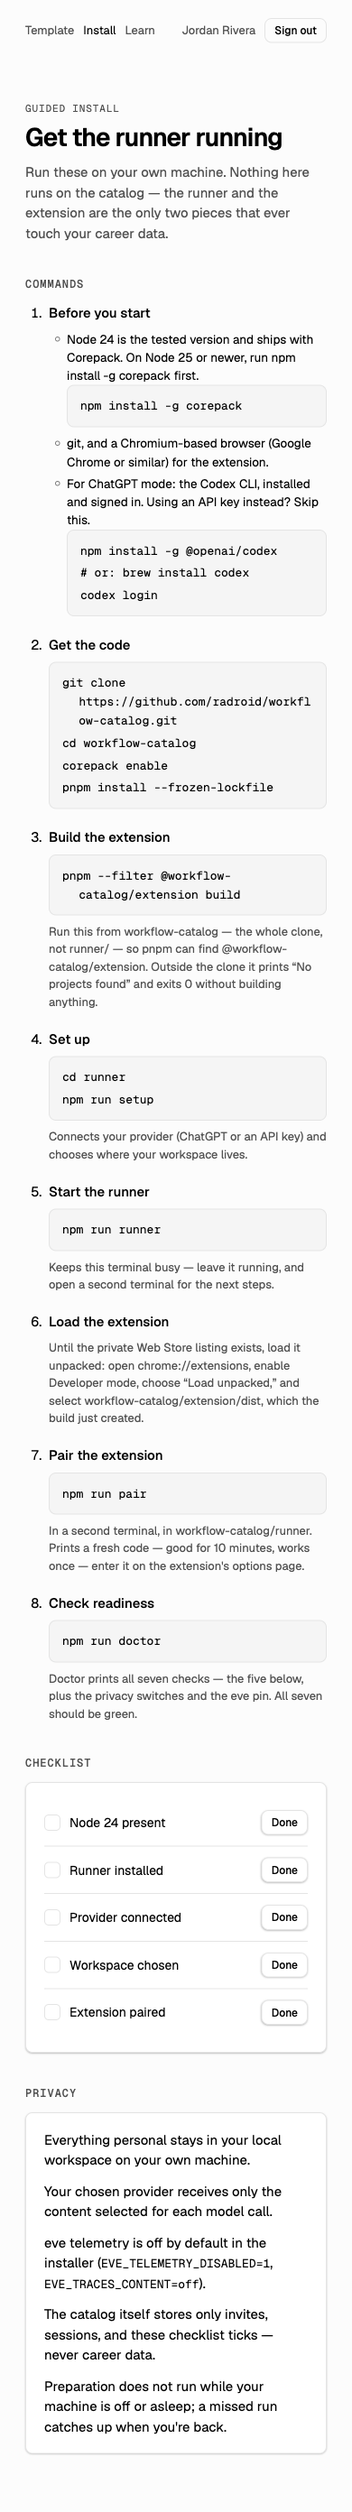
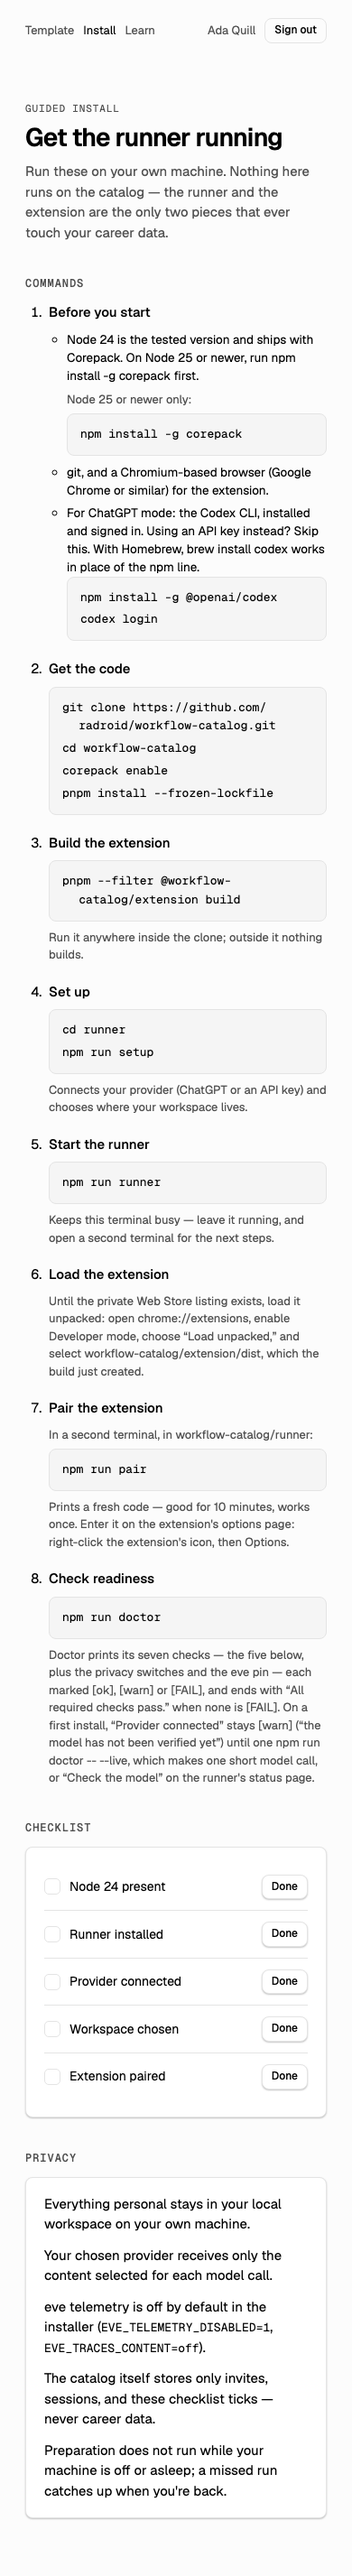
P09.1: re-shoot acceptance screenshots signed in as Ada Quill
All eight docs/screenshots/P09.1-{install,template}-{light,dark}-{1280,390}.png
re-captured full page, signed in through a fresh invite as the fictional
"Ada Quill" (fixtures policy), against `pnpm --filter catalog dev --port
3105` with throwaway secrets and PGlite under /tmp; browsed
http://localhost:3105. Before each capture the script asserted the header
name, the theme, no horizontal overflow and axe 0 violations; on /install
it also checked that each command block copies exactly its commands and
that the clone command breaks only at the space or a <wbr>.

Also corrects two comments: at 390 the clone URL wraps after
"github.com/" (both <wbr> are opportunities; the browser fills the line).

diff --git a/apps/catalog/lib/install-commands.ts b/apps/catalog/lib/install-commands.ts
@@ -34,9 +34,9 @@ export interface InstallStep {
 
 /**
  * `command` split just after each "/" in a URL's path, so a narrow screen
- * can wrap the clone URL between path segments ("…github.com/radroid/",
- * then "workflow-catalog.git") instead of mid-word. The install page puts
- * a <wbr> between the parts. A <wbr> adds no character, so the parts always
+ * can wrap the clone URL between path segments (after "github.com/" or
+ * "radroid/") instead of mid-word. The install page puts a <wbr> between
+ * the parts. A <wbr> adds no character, so the parts always
  * join back to exactly `command`, and copying a block still copies exactly
  * its commands (tests/install-command-block.test.ts).
  */

diff --git a/apps/catalog/app/(gated)/install/page.tsx b/apps/catalog/app/(gated)/install/page.tsx
@@ -22,9 +22,9 @@ export const metadata = { title: "Install · workflow catalog" };
  * commands (see tests/install-command-block.test.ts).
  *
  * P09.1 revision 2 (UI critic): a URL gets a <wbr> after each path "/"
- * (urlBreakParts), so at 390px the clone URL wraps after "radroid/"
- * instead of mid-word. A <wbr> is a break opportunity, not a character,
- * so a copy is unchanged.
+ * (urlBreakParts), so at 390px the clone URL wraps between path segments
+ * (after "github.com/") instead of mid-word. A <wbr> is a break
+ * opportunity, not a character, so a copy is unchanged.
  */
 function CommandBlock({ commands }: { commands: string[] }) {
   return (
